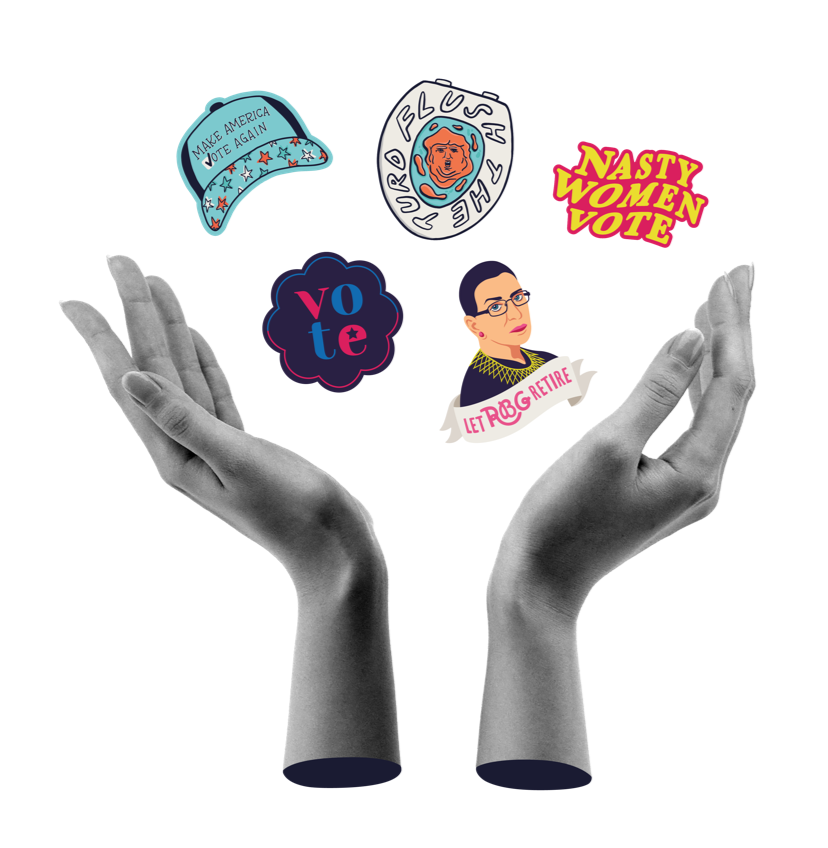
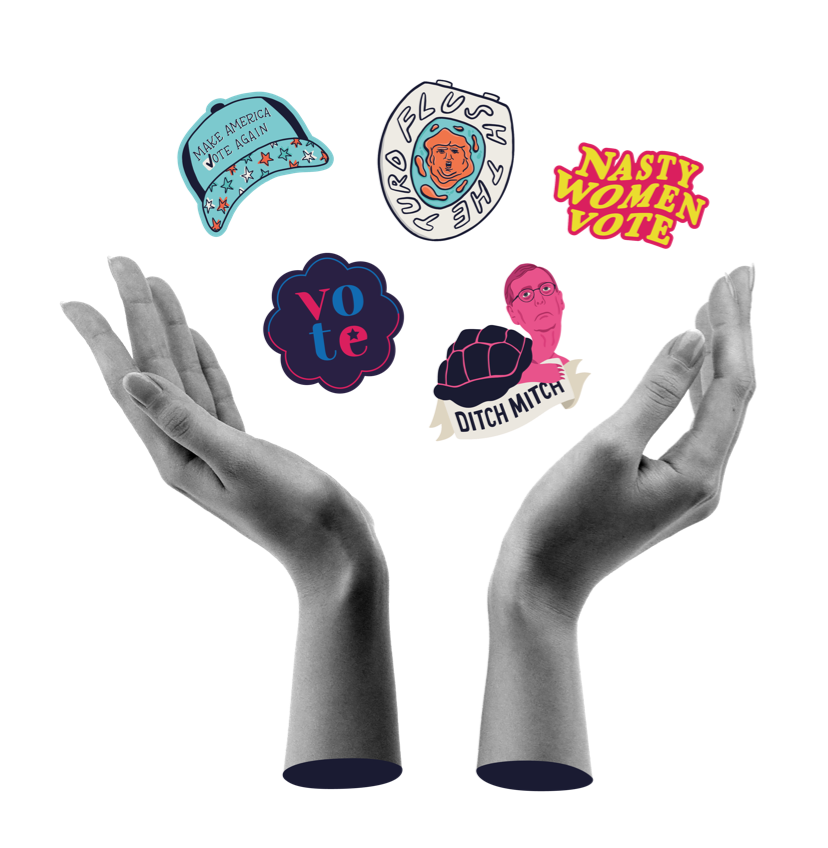
ross

diff --git a/src/candidates.html b/src/candidates.html
@@ -508,7 +508,7 @@
         No Democrat has won a Senate race in S.C. since 1998, but in recent polls, Harrison is close behind—even tied with—Senator Graham. Harrison is a former state senator, former chairman of the S.C. Democratic Party, and was aide to legendary Congressman James Clyburn. Much of his career has been devoted to enfranchising Black voters, and he cares deeply about affordable and accessible healthcare.
 
         <br /><br />
-        <b><i>Opponent: Lindsey Graham</b> <span style="padding-left:3px">(Check out his <a href="https://www.nbcnews.com/video/sen-graham-defends-judge-kavanaugh-this-is-the-most-unethical-sham-since-i-ve-been-in-politics-1330976323809">Kavanaugh speech</a>)</span></i>
+        <b><i>Opponent: Lindsey Graham</b> <span style="padding-left:3px">(Check out his <a target="_blank" href="https://www.nbcnews.com/video/sen-graham-defends-judge-kavanaugh-this-is-the-most-unethical-sham-since-i-ve-been-in-politics-1330976323809">Kavanaugh speech</a>)</span></i>
         <br /><br />
         <b><i><a target="_blank" class="candidateLink" href="https://jaimeharrison.com/">Learn More About Harrison</a></i></b> 
 
@@ -529,7 +529,7 @@
        Texas: M.J. Hegar
      </div>
      <div class="candidateText"> 
-      Texas has been a Republican bastion for decades, but Democrats have gained ground. Hegar gained national attention in 2018 for a <a href="https://www.youtube.com/watch?v=Zi6v4CYNSIQ">powerful ad</a> highlighting her work breaking down barriers for women in the military. A combat veteran and search and rescue pilot in the US Air Force, Hegar received a Purple Heart for injuries she sustained in a search and rescue mission.
+      Texas has been a Republican bastion for decades, but Democrats have gained ground. Hegar gained national attention in 2018 for a <a target="_blank" href="https://www.youtube.com/watch?v=Zi6v4CYNSIQ">powerful ad</a> highlighting her work breaking down barriers for women in the military. A combat veteran and search and rescue pilot in the US Air Force, Hegar received a Purple Heart for injuries she sustained in a search and rescue mission.
       <br /><br />
       <b><i>Opponent: John Cornyn</b>  <span style="padding-left:3px">(Former Senate Majority Whip)</span></i>
       <br /><br />

diff --git a/src/aboutus.html b/src/aboutus.html
@@ -96,7 +96,7 @@
            The Mission
          </div>
          <div class="descriptionText">
-          We’re a group of Chicago creatives (and one programmer) who are passionate about art and politics. The website and stickers are a way to merge two loves and make a tangible difference in the 2020 election. If we encourage just one person to vote, we’ll consider this endeavour a success.
+          We’re a group of Chicago creatives (and one developer) who are passionate about art and politics. The website and stickers are a way to merge two loves and make a tangible difference in the 2020 election. If we encourage just one person to vote, we’ll consider this endeavour a success.
         </div>
         <br /><br />
       </div>
@@ -175,7 +175,7 @@
         <div class="h-100">
                               <div class="d-flex justify-content-center">
 
-          <img src="images/RBG@1x.png" srcset="images/RBG@1x.png 1x, /images/RBG@2x.png 2x" class="img-fluid"/>
+          <img src="images/RBG@1x.png" srcset="images/Mitch@1x.png 1x, /images/Mitch@2x.png 2x" class="img-fluid"/>
             </div>
           <div class="artistName">monika pawar</div>
         </div>

diff --git a/src/index.html b/src/index.html
@@ -106,7 +106,7 @@
       </div>
     </div>
     <div class="col-lg col-md p-0 stickers">
-      <img src="images/Stickers_Background.jpg" srcset="images/Stickers_Background.jpg 1x, images/Stickers_Background@2x.jpg 2x" class="img-fluid mx-auto stickerImage"/>
+      <img src="images/Stickers_v4.png" srcset="images/Stickers_v4.png 1x, images/Stickers_v4@2x.png 2x" class="img-fluid mx-auto stickerImage"/>
       </div>
     </div>
   </div>
@@ -171,7 +171,7 @@
         <div class="howDescriptionText">
           <ul>
           <li class="bullets">
-             The Senate currently has 53 Republicans and 47 Democrats if we include the two Independents who caucus with the Democrats.
+             The Senate currently has 53 Republicans and 47 Democrats if we include the two Independents who caucus with the Democrats
           </li>
           <li class="bullets">
             All the seats Democrats are defending in 2020 are in solidly blue states, except for two

diff --git a/src/claimyourswag.html b/src/claimyourswag.html
@@ -207,7 +207,7 @@
 
             <div class="row">
               <div class="col">
-                <span class="dollarPosition">$</span><input type="number" min="5.00" max="1000.00" step="0.01" class="inputDollar" name="donationAmount" id="inputDollar">
+                <span class="dollarPosition">$</span><input type="number" min="0.00" max="1000.00" step="0.01" class="inputDollar" name="donationAmount" id="inputDollar">
               </div>
             </div>
             <div class="labelSeparator"></div>
